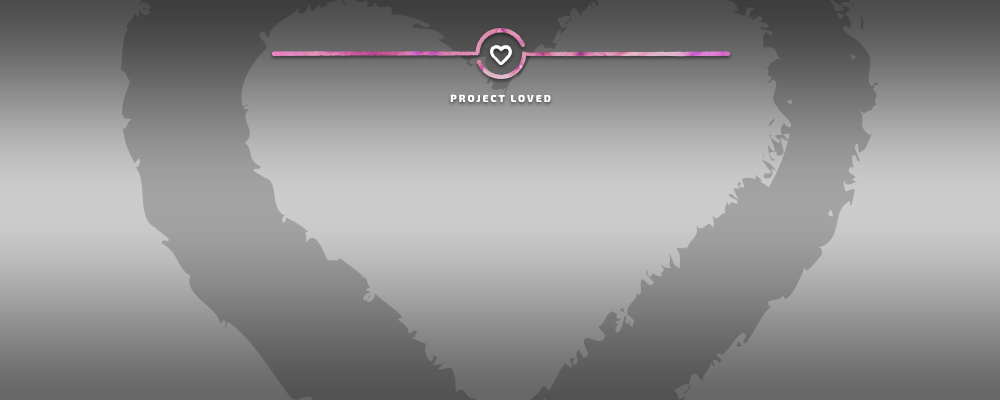
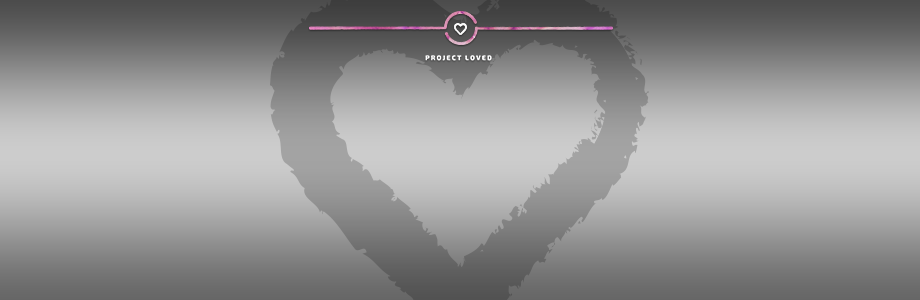
Update beatmap image design
closes #38

Changed region(s): [[0.1217, 0.03, 0.8826, 0.9]]

diff --git a/image-template/style.css b/image-template/style.css
@@ -22,24 +22,24 @@ p {
   font-style: italic;
   font-weight: 600;
   text-align: center;
-  text-shadow: 0 2px 4px #0007;
+  text-shadow: 0 1px 2px #0007;
 }
 
 #title {
-  font-size: 30px;
-  margin-top: 283px;
+  font-size: 21px;
+  margin-top: 219px;
 }
 
 #artist {
-  font-size: 20px;
-  margin-top: 317px;
+  font-size: 14px;
+  margin-top: 242.5px;
 }
 
 #creator {
-  font-size: 14px;
+  font-size: 11px;
   font-style: normal;
   font-weight: 400;
-  margin-top: 349px;
+  margin-top: 264px;
 }
 
 b {

diff --git a/generate.js b/generate.js
@@ -31,8 +31,8 @@ async function generateImage(
   const page = await browser.newPage();
 
   await page.setViewport({
-    width: 1000,
-    height: 400
+    width: 920,
+    height: 300
   });
   await page.goto(`file://${__dirname.replace(/\\/g, '/')}/image-template/index.html`);
 

diff --git a/image-template/index.html b/image-template/index.html
@@ -2,6 +2,7 @@
 <html>
     <head>
         <link rel="stylesheet" href="style.css">
+        <meta name="viewport" content="width=device-width, initial-scale=1.0">
     </head>
     <body>
         <img src="project-loved-overlay.png">
